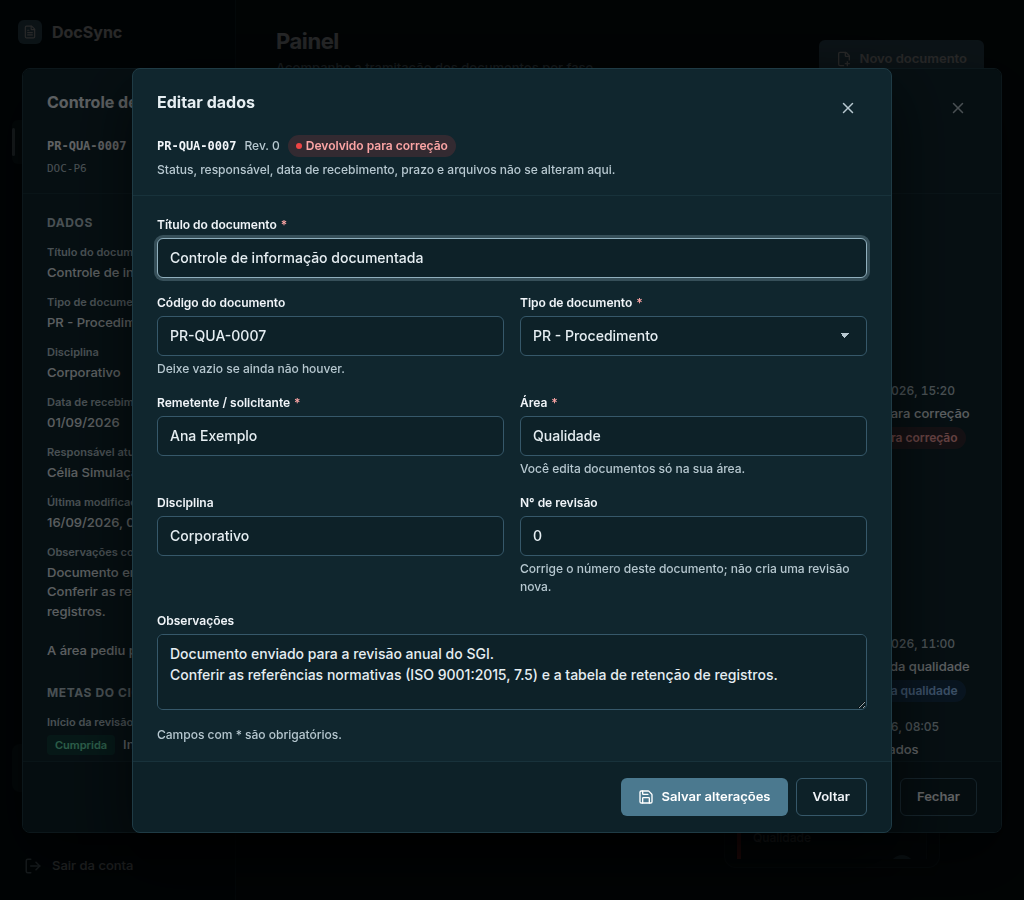
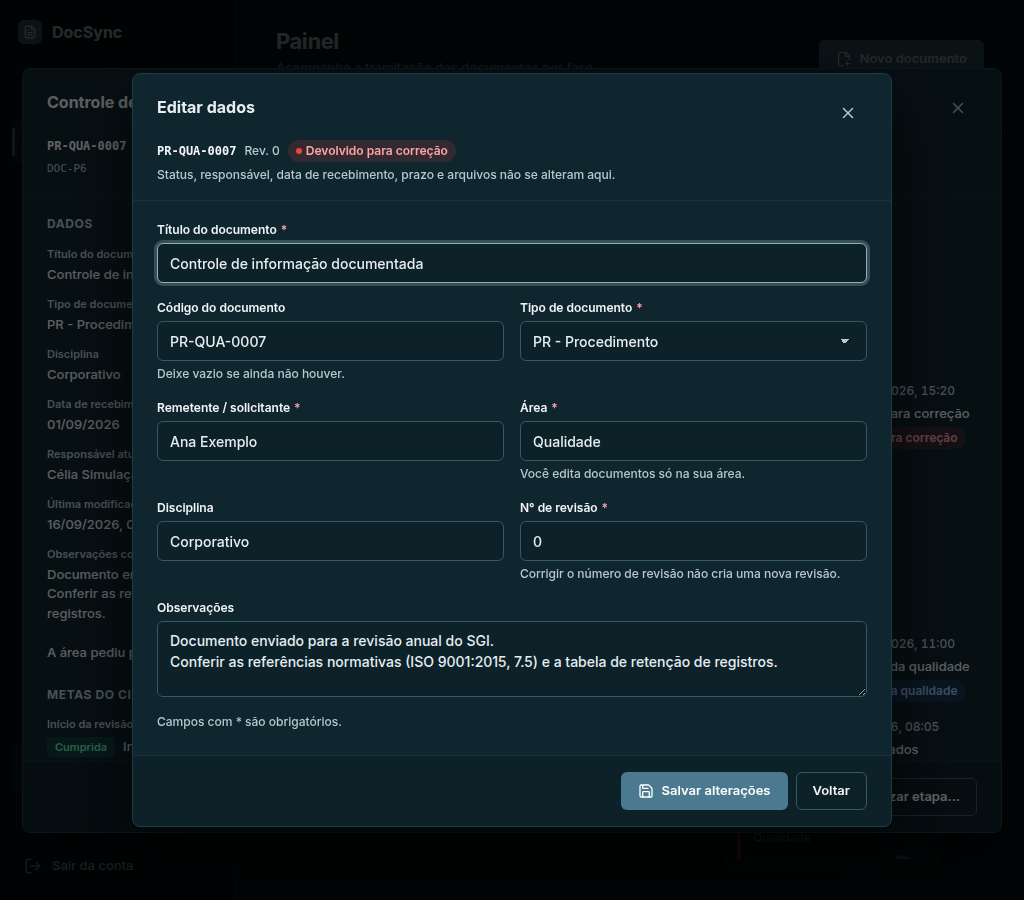
F6: rodapé enxuto, Editar no título de Dados, reprogramar vencendo (ajustes da validação)
Claude-Session: https://claude.ai/code/session_01B3gkGo9nqbChhhVxVZNRHD

diff --git a/apps/web/src/componentes/DetalhesDocumento.module.css b/apps/web/src/componentes/DetalhesDocumento.module.css
@@ -93,7 +93,6 @@
   align-items: center;
   justify-content: space-between;
   gap: var(--space-2);
-  min-height: var(--space-7);
 }
 
 /* "Editar" discreto (atualização da decisão 0015): mesmo padrão do "Detalhes" da linha do tempo. */
@@ -103,7 +102,8 @@
   gap: var(--space-1);
   min-height: var(--space-7);
   padding: 0 var(--space-2);
-  margin-right: calc(-1 * var(--space-2));
+  /* Margem negativa: o alvo de clique é maior que a linha do título, sem empurrar o conteúdo. */
+  margin: calc(-1 * var(--space-1)) calc(-1 * var(--space-2)) calc(-1 * var(--space-1)) 0;
   border: 0;
   border-radius: var(--radius-sm);
   background: none;

diff --git a/docs/relatorios/2026-09-29-f6-web-edicao.md b/docs/relatorios/2026-09-29-f6-web-edicao.md
@@ -63,3 +63,19 @@
 - **B4:** e2e novo em `edicao.spec.ts` ("rodapé com 6 botões", claro e escuro): Administrador no DOC-P4 (prazo vencido) em 768px; confere 6 botões no rodapé (ação rápida, Atualizar etapa…, Editar dados, Cancelar documento, Reprogramar, Fechar), nenhum saindo do rodapé ou da janela, rodapé sem rolagem interna, página sem rolagem horizontal, axe sem violações. Texto "até 5" corrigido para "até 6" acima.
 - Arquivos: `apps/web/src/componentes/DialogoEditarDados.tsx`, `DialogoEditarDados.module.css`, `DialogoEditarDados.test.tsx`, `apps/web/src/telas/TelaNovoDocumento.tsx`, `apps/web/e2e/edicao.spec.ts`.
 - Validação: `npm run typecheck` e `npm test` (567) verdes; `edicao.spec.ts` inteiro verde (16/16, inclusive os 2 casos novos). **Não rodados** (a ferramenta de terminal ficou indisponível no fim da sessão): `npm run build`, `npm run segredos` e a suíte e2e completa; rodar antes de levar ao Eric.
+
+## Ajustes da validação (2026-09-29, agente-visao-minimalista / Opus)
+
+Pedidos do Eric na validação da F6 (decisão 0015, atualização de 2026-09-29; contrato F6, seção 10). Só `apps/web`.
+
+- **Rodapé do modal de detalhes** com no máximo 3 botões: "Atualizar etapa…", "Cancelar documento" (ou "Reativar", quando cancelado) e "Reprogramar" (quando `podeReprogramar` permite). Saíram o botão de ação principal (`acoesRapidas`/`MAXIMO_ACOES_RAPIDAS` removidos), "Editar dados" e "Fechar" (o ✕ do cabeçalho fecha). Sem nenhuma ação (Leitor, Aprovado), o modal fica sem rodapé: `Dialogo` passou a omitir a faixa de ações quando `acoes` é `null`.
+- **Aprovar** agora só por "Atualizar etapa…": nada vem pré-selecionado; ao escolher "Aprovado", a dica do campo Etapa diz "A aprovação é final e encerra a tramitação." e o botão vira "Aprovar" (ícone de confirmação). O diálogo de confirmação separado ("Aprovar documento") saiu, com a prop `paraInicial`.
+- **"Editar"** discreto no título da seção Dados (lápis + "Editar", nome acessível "Editar dados", mesmo padrão visual do "Detalhes" da linha do tempo; 44px em `pointer: coarse`), só para quem `podeEditar`; abre o `DialogoEditarDados` como antes.
+- **Dica do N° de revisão**: "Corrigir o número de revisão não cria uma nova revisão."
+- **Foco**: botão usado que continua na tela recebe o foco de volta ("Atualizar etapa…", "Editar"); botão que some (Reativar depois de reativar, Reprogramar depois de adiar, rodapé inteiro depois de aprovar) → foco no ✕ ("Fechar detalhes"). Coberto em Vitest e e2e.
+- **Reprogramar com prazo vencendo**: a regra nova de `podeReprogramarAgora` (commit `72f6db8`) já estava no compartilhado; testes da web ajustados (vence hoje e em 5 dias mostram; 6 dias não). A vitrine já tinha fixtures vencendo (DOC-P7, vence amanhã); e2e novo usa o DOC-P7.
+- **Testes**: Vitest (`DetalhesDocumento`, `DialogoEditarDados`, `TelaPainel`) e e2e (`status`, `detalhes`, `edicao`, `capturas`) ajustados; o e2e "6 botões" virou "no máximo 3 botões" (768px, claro e escuro, sem "Fechar", "Editar" no título de Dados, axe).
+- **Capturas regeneradas**: `docs/relatorios/capturas/detalhes-acoes-*` e `editar-dados-*` (as anteriores ficam no histórico do Git como "antes").
+- Arquivos: `apps/web/src/componentes/DetalhesDocumento.tsx`, `DetalhesDocumento.module.css`, `DetalhesDocumento.test.tsx`, `Dialogo.tsx`, `DialogoAtualizarEtapa.tsx`, `DialogoEditarDados.tsx`, `DialogoEditarDados.test.tsx`, `apps/web/src/telas/TelaPainel.test.tsx`, `apps/web/e2e/{capturas,detalhes,edicao,status}.spec.ts`, `apps/web/e2e/vitrine/vitrine.tsx`.
+- Validação: `npm run typecheck`, `npm test` (572), `npm run build`, `npm run segredos` e e2e completo (118 passam, 53 capturas puladas sem `CAPTURAS`) verdes.
+- Pendente fora de `apps/web`: o CLAUDE.md (seções "Prazo e datas" e "Cartão do Kanban") ainda diz "só com prazo vencido" e cita "Editar dados" no rodapé/ação principal; atualizar na mesma entrega.

diff --git a/CLAUDE.md b/CLAUDE.md
@@ -88,6 +88,7 @@ Toda decisão de arquitetura, tecnologia, modelo de dados ou escopo vira um arqu
 - **Status na interface (F5):** diálogos `DialogoAtualizarEtapa`, `DialogoCancelar` e `DialogoConfirmar` (estilos em `DialogoStatus.module.css`); ações da tela por `acoesDeStatusPara`, `podeCancelar`, `podeReativar` e `podeReprogramar(eu, doc, hoje)` em `permissoes.ts` (a API decide de verdade); toast com tom `erro`; `ErroApi` mostra a mensagem do servidor só em `acao_nao_permitida` e `sem_permissao`; datas curtas por `formatarDiaMes`/`formatarMesAno`; tokens `--kanban-coluna-altura-max` e `--avatar-cartao`. Tela de altura cheia (Painel): a raiz leva `data-altura-cheia` e a casca dá `100dvh` em coluna; só as colunas rolam. Vitrine com `?painel=muitos` para testar rolagem.
 - **Edição de dados (F6, [contrato](docs/contratos/f6-edicao-de-dados.md), seção 9 prevalece):** os 8 campos cadastrais (`CAMPOS_EDITAVEIS`) são validados só por `validarDadosDocumento` (`packages/compartilhado/src/edicao.ts`), a mesma no cadastro, na edição e nas telas (P-14); `revisao` é obrigatória (número ou texto numérico, 0–999). `PUT /documentos/:id/dados` (`apps/api/src/rotas/edicao.ts`): corpo completo e fechado (8 campos + `versao`; `status` e campos do servidor → 400), ordem de decisão da F5, idempotência por versão + último `EDICAO` do mesmo autor + documento já igual ao pedido, 409 `conflito_versao` com `documento`, sem diferença → 200 `evento: null`. Tipo/área e código+revisão só são conferidos quando mudam (valor atual inativado é aceito; conflito de código é 409, nunca mescla). `nome_pasta` recalculado quando o título muda; `hash_cadastro`, status, responsável e datas nunca mudam aqui. Evento `EDICAO`: `detalhes` de `diferencasDocumento` (tipo/área pelo nome), `codigo` novo, sem responsável nem observação; resumo por `resumoEdicao`. `pode(eu, 'editarDados', { areaId, status })`: Administrador e Qualidade sim; Solicitante só na sua área e em fase devolvido, e não muda a área; Leitor não. Aprovado e Cancelado não se editam (`podeEditarAgora`), nem pelo Administrador.
 - **Edição na interface (F6):** rótulos, ordem e mensagens dos campos do documento só por `apps/web/src/camposDocumento.ts` (cadastro e edição); `podeEditar` em `permissoes.ts`; `DialogoEditarDados` (conflito mantém o digitado e traz do servidor os campos não tocados; descartar alterações pergunta antes); `DialogoConfirmar` aceita `rotuloVoltar`; vitrine com `?editar=1` e `?edicao=conflito`.
+- **Rodapé do modal (validação da F6):** só "Atualizar etapa…", "Cancelar documento"/"Reativar" e "Reprogramar"; sem ação principal separada (`acoesRapidas` removida) e sem "Fechar"; aprovar só dentro de "Atualizar etapa…" (dica "A aprovação é final…", botão "Aprovar"); sem ações, o `Dialogo` omite o rodapé (`acoes={null}`); botão "Editar" no título da seção Dados.
 - **Contas de teste do Entra:** criadas pelo script [scripts/entra/criar-contas-teste.ps1](scripts/entra/criar-contas-teste.ps1) (só no locatário de teste; senha exibida só no terminal, nunca versionada).
 - **Testes da API:** Vitest com `app.inject`, banco PGlite em memória (clonado de um modelo migrado) e JWKS local gerado no teste ([apps/api/src/apoio-testes.ts](apps/api/src/apoio-testes.ts)). Nenhum teste chama a internet.
 

diff --git a/docs/estado-atual.md b/docs/estado-atual.md
@@ -12,19 +12,19 @@ Atualizado em 2026-09-29. Leia este arquivo logo depois do CLAUDE.md ao começar
 | F3 Painel Kanban | Validada pelo Eric em 2026-09-29 | `7e76160`…`1338442` |
 | F4 Detalhes + histórico | Validada pelo Eric em 2026-09-29 | `8cd5ee7`…`a2ffd8a` |
 | F5 Mudança de status | Validada pelo Eric em 2026-09-29 | `ed3d59d`…`c89c7e2` |
-| **F6 Edição de dados** | **Servidor e interface entregues; QA aprovado com ressalvas; correções pequenas em andamento; depois validação do Eric** | `3c45b60`…`83d2d8c` |
+| **F6 Edição de dados** | **Servidor e interface entregues; QA aprovado com ressalvas; ajustes da validação feitos; aguardando validação do Eric** | `3c45b60`…`83d2d8c` |
 
 Detalhes de cada fatia: [plano-fundacao.md](plano-fundacao.md) e os relatórios em [relatorios/](relatorios/).
 
 ## F6: o que falta
 
-1. Correções pequenas do QA terminando; o Eric responde os 3 pontos da seção 10 do contrato e roda o roteiro abaixo.
+1. Ajustes feitos (rodapé enxuto, "Editar" no título de Dados, reprogramar com prazo vencendo). O Eric roda o roteiro abaixo.
 2. Se ele disser "F6 validada": plano, CHANGELOG e seguir para a F7 (anexos posteriores + versões de arquivo, decisão 0014).
 
 Relatórios: `relatorios/2026-09-29-f6-*.md`. A parte servidor foi feita com Opus (Fable sem créditos).
 
 Roteiro da F6:
-- Detalhes → "Editar dados": mudar Título e Área e salvar → aviso, cartão atualizado e "Edição de dados" na linha do tempo com "antes → depois".
+- Detalhes → "Editar" (título da seção Dados): mudar Título e Área e salvar → aviso, cartão atualizado e "Edição de dados" na linha do tempo com "antes → depois".
 - Apagar o Remetente e salvar → recusado com a mesma mensagem do cadastro.
 - Salvar sem mudar nada → "Nenhum campo foi alterado." e nada é gravado.
 - Código + revisão iguais aos de outro documento → recusado no campo Código, nada é mesclado.
